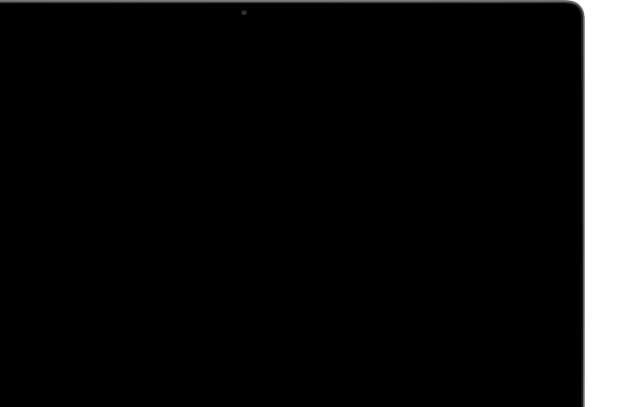
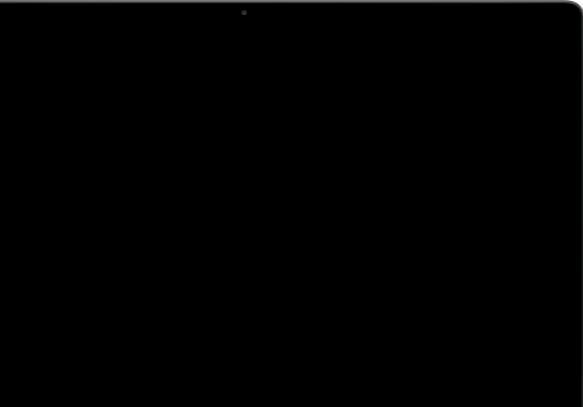
chore: paddings changes

Changed region(s): [[0.8645, 0.0, 1.0, 1.0]]

diff --git a/src/components/AuthentificationBanner.tsx b/src/components/AuthentificationBanner.tsx
@@ -35,8 +35,8 @@ const AuthentificationBanner = ({ children }: { children: ReactNode }) => {
 
   return (
     <main className="flex w-full flex-col md:flex-row">
-      <div className="hidden w-6/12 flex-col bg-gradient-to-br from-blue-300 to-blue-500 md:flex">
-        <div className="flex flex-col px-32 pb-32 pt-28">
+      <div className="hidden w-6/12 flex-col justify-between bg-gradient-to-br from-blue-300 to-blue-500 md:flex">
+        <div className="flex flex-col px-28 py-28">
           <div>
             <Image
               alt="logo"
@@ -46,7 +46,7 @@ const AuthentificationBanner = ({ children }: { children: ReactNode }) => {
             />
           </div>
 
-          <div className="w-4/5 py-10 leading-10">
+          <div className="w-4/5 pb-10 pt-14 leading-10">
             <h3 className="text-5xl font-semibold text-white">
               Comienza a simplificar tus acciones,{" "}
               <span className="text-blue-300">aquí.</span>
@@ -54,27 +54,29 @@ const AuthentificationBanner = ({ children }: { children: ReactNode }) => {
           </div>
 
           <div>
-            <h6 className="w-11/12 text-xl font-normal leading-5 text-white">
+            <h6 className="w-10/12 text-xl font-normal leading-5 text-white">
               En nuestra plataforma web vas a encontrar todo lo que estás
               buscando.
             </h6>
           </div>
         </div>
 
-        <div className="relative">
+        <div className="relative flex flex-col align-top">
           <Image
-            className="relative"
+            className="relative h-auto w-11/12"
             src="/registerPage/macBookPro16.png"
             alt="computer"
-            width={644}
-            height={407}
+            width="0"
+            height="0"
+            sizes="100vw"
           />
           <Image
             alt="planit page in mac book"
-            className="pr-17 absolute top-8"
+            className="absolute h-full w-[89%] pt-7"
             src="/registerPage/design.png"
-            width={642}
-            height={373}
+            width="0"
+            height="0"
+            sizes="100vw"
           />
         </div>
       </div>

diff --git a/src/pages/register.tsx b/src/pages/register.tsx
@@ -46,10 +46,10 @@ const Register = () => {
       <Toast />
 
       <AuthentificationBanner>
-        <div className="flex flex-grow  flex-col justify-between">
-          <div className="ms:w-6/12 flex flex-col px-5 pb-24 pt-7 md:px-32 md:pb-0 md:pt-40">
+        <div className="flex flex-col">
+          <div className="ms:w-6/12 flex flex-col px-5 pb-24 pt-7 md:px-32 md:pb-14 md:pt-40">
             <div className="flex flex-col pb-14">
-              <h4 className="w-10/12 pb-5 text-4xl font-semibold leading-10 md:w-full md:pb-10 md:font-medium md:leading-9">
+              <h4 className="w-10/12 pb-5 text-4xl font-semibold leading-10 md:w-full md:pb-9 md:font-medium md:leading-9">
                 ¡Bienvenido a Plan IT!
               </h4>
 
@@ -103,14 +103,14 @@ const Register = () => {
                   errorMessage={errors.business?.message}
                 />
 
-                <div className="rounded bg-white pt-5 md:pt-12">
+                <div className="rounded bg-white md:pt-5">
                   <Button intent="primary">REGISTRARSE</Button>
                 </div>
               </form>
             </FormProvider>
           </div>
 
-          <div className="hidden flex-row items-center justify-end gap-5 pr-6 md:flex">
+          <div className="hidden flex-row items-center justify-end gap-5 pb-6 pr-6 md:flex">
             <Button intent="help">
               ¿Necesitás ayuda?
               <span>
@@ -126,10 +126,10 @@ const Register = () => {
               </span>
             </Button>
 
-            <div className="flex h-20 w-20 items-center justify-center rounded-lg bg-white shadow-lg ">
+            <div className="flex h-20 w-20 items-center justify-center rounded-lg bg-white shadow-lg">
               <Image
-                src="/registerPage/logoSecondary.png"
-                alt="planit logo"
+                alt="logo"
+                src="/registerPage/logo.png"
                 width={28}
                 height={42}
               />

diff --git a/src/pages/login.tsx b/src/pages/login.tsx
@@ -44,10 +44,10 @@ const Register = () => {
       <Toast />
 
       <AuthentificationBanner>
-        <div className="flex flex-grow flex-col justify-between">
-          <div className="ms:w-6/12 flex flex-col p-56 px-5 pt-7 md:px-32 md:pb-0 md:pt-56">
+        <div className="flex flex-grow flex-col">
+          <div className="ms:w-6/12 md:pb-34 flex flex-col p-56 px-5 pt-7 md:px-32 md:pt-56">
             <div className="flex flex-col pb-12 md:pb-20">
-              <h4 className="w-10/12 pb-5 text-4xl font-semibold leading-10 md:w-full md:pb-10 md:font-medium md:leading-9">
+              <h4 className="w-10/12 pb-5 text-4xl font-semibold leading-10 md:w-full md:pb-9 md:font-medium md:leading-9">
                 ¡Hola, otra vez!
               </h4>
 
@@ -95,7 +95,7 @@ const Register = () => {
             </FormProvider>
           </div>
 
-          <div className="hidden flex-row items-center justify-end gap-5 pr-6 md:flex">
+          <div className="hidden flex-row items-center justify-end gap-5 pb-6 pr-6 md:flex">
             <Button intent="help">
               ¿Necesitás ayuda?
               <span>

diff --git a/src/components/Button.tsx b/src/components/Button.tsx
@@ -5,7 +5,7 @@ const buttonStyles = cva("", {
   variants: {
     intent: {
       primary:
-        "box-border h-7 w-full rounded border-0 bg-gradient-to-br from-blue-300 to-blue-500 text-center text-base font-medium leading-4 text-white shadow-sm hover:cursor-pointer md:h-9 md:text-base md:font-medium",
+        "box-border h-9 w-full rounded border-0 bg-gradient-to-br from-blue-300 to-blue-500 text-center text-base font-medium leading-4 text-white shadow-sm hover:cursor-pointer md:h-9 md:text-base md:font-medium",
       help: "flex h-8 w-56 flex-row items-center justify-center gap-3 rounded-xl bg-blue-300 text-base font-normal leading-4 text-white",
     },
   },

diff --git a/src/components/Input.tsx b/src/components/Input.tsx
@@ -11,7 +11,7 @@ const Input = ({ type, id, placeholder, errorMessage }: InputProps) => {
   const { register } = useFormContext();
 
   return (
-    <div className="flex flex-col gap-y-2.5 pb-8 md:w-full md:pb-6">
+    <div className="flex flex-col gap-y-3 pb-8 md:w-full md:pb-10">
       <input
         className="focus:!important border-b border-l-0 border-r-0 border-t-0 border-solid border-black pb-2 placeholder:border-transparent placeholder:text-base placeholder:font-medium placeholder:leading-normal placeholder:text-black focus:outline-none md:pb-3 md:placeholder:text-lg md:placeholder:font-normal md:placeholder:leading-5"
         type={type}

diff --git a/tailwind.config.ts b/tailwind.config.ts
@@ -29,11 +29,9 @@ export default {
         "11/12": "90%",
         "5/4": "125%",
       },
-      spacing: {
-        "8": "2.18rem",
-      },
       padding: {
         "17": "68px",
+        "34": "134px",
       },
     },
   },
